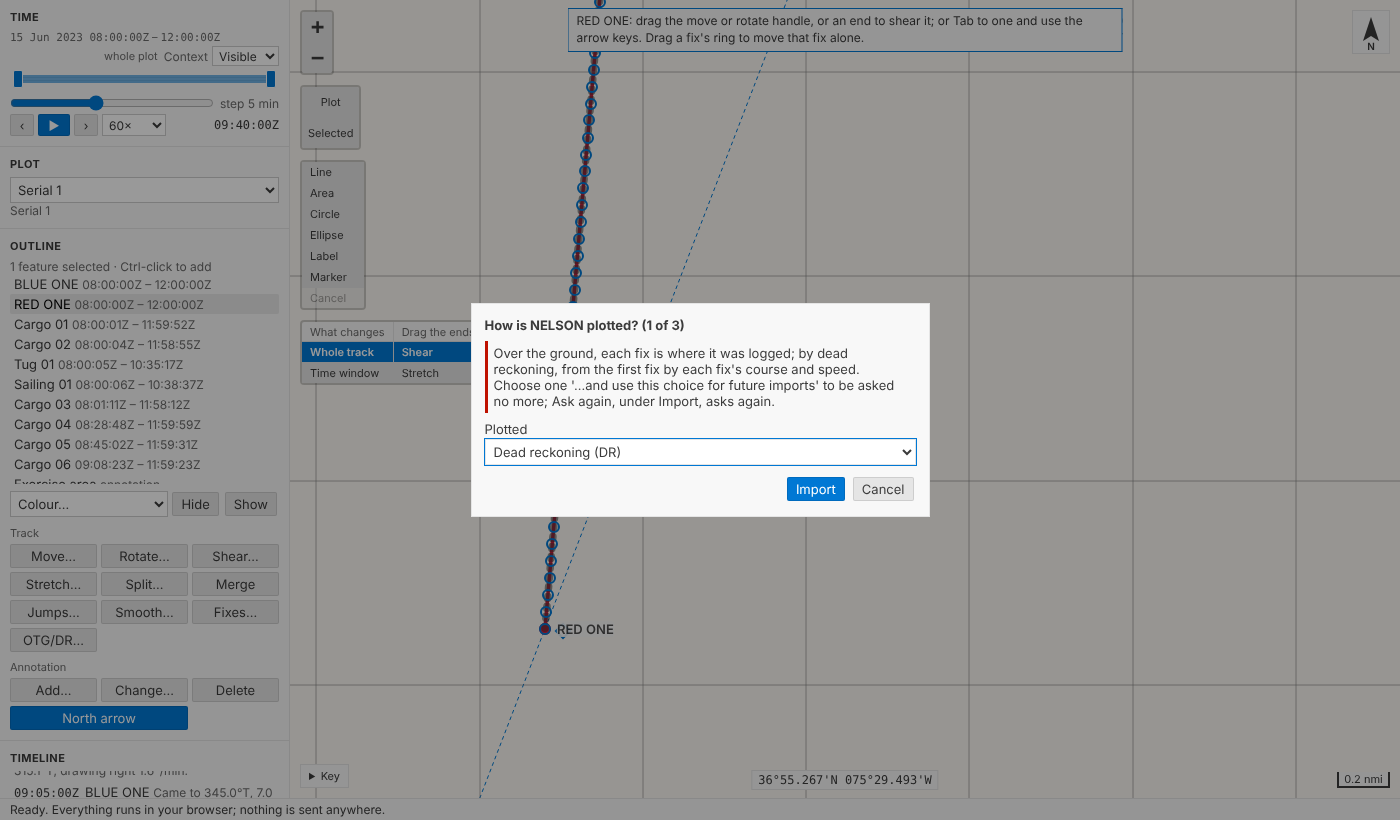
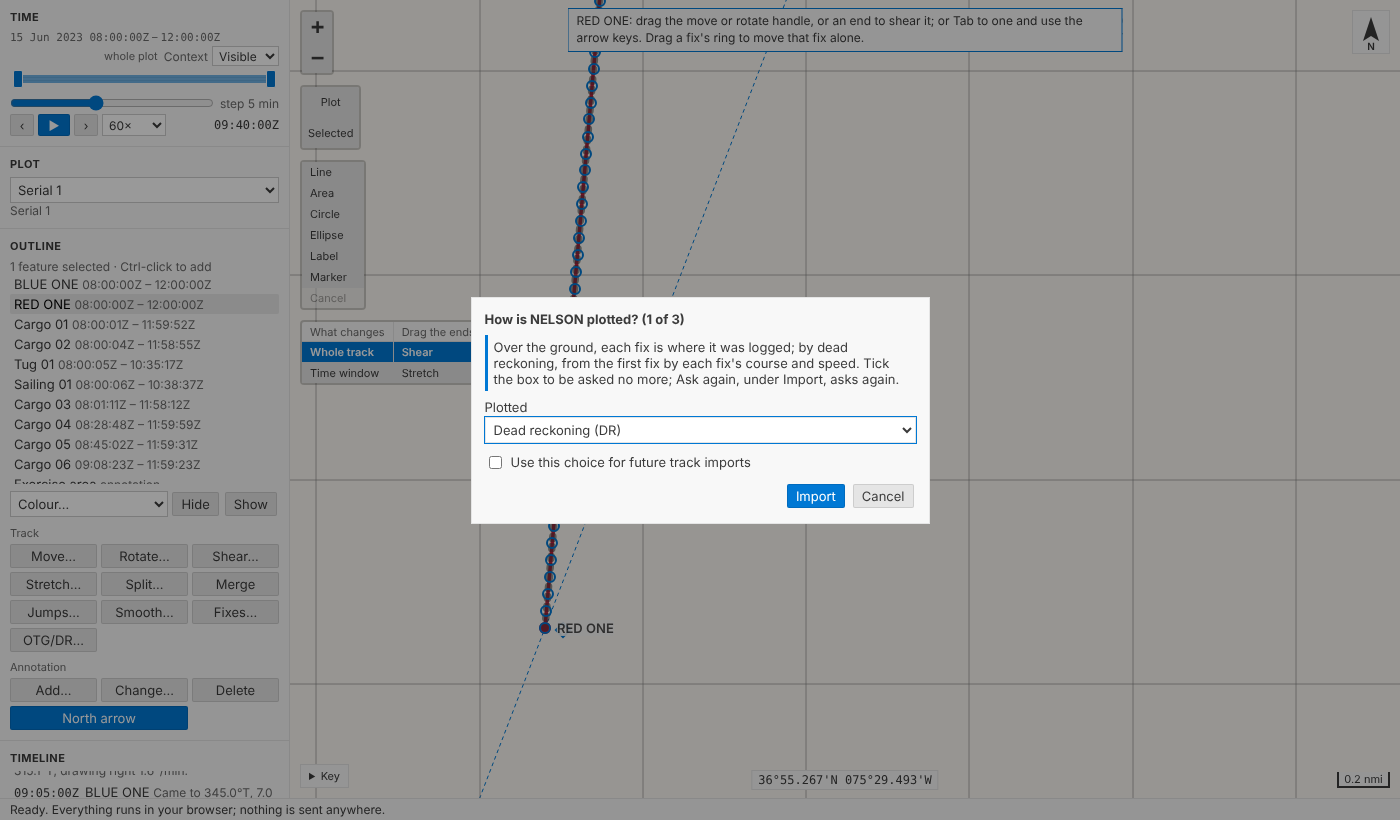
Docs: B3 decisions of 14 Oct recorded; import prompt, DR tag and confirmation; screenshots retaken
The track operations guide records the product owner's answers (DR to OTG
after edits asks first; a REP track asked about once, whole; DR tagged in the
outline and on the map) and the panel's choice of a Quick Pick line as the
"Use this choice for future track imports" box. The blog post, Try page and
extension README say the same; the import prompts (playground and VS Code) are
retaken and the playground's confirmation is added.

Claude-Session: https://claude.ai/code/session_018c8QiHtanE5rfymqfArUYT

diff --git a/site/docs/guides/interaction-models/track-operations.md b/site/docs/guides/interaction-models/track-operations.md
@@ -286,10 +286,12 @@ Part B3 (14 Oct 2026), the last of part B. One fix moved on its own, as legacy D
 
 8. **Over the ground or dead reckoning (OTG and DR).** Legacy Debrief plotted each track either **over the ground** (OTG: each fix where it was logged) or by **dead reckoning** (DR: the first fix where it was logged, and each fix after it placed from the one before by the course and speed logged, as a navigator plots a DR track), and asked which as each track was imported, with a checkbox *Use this choice for future track imports*. That worked well, since a community tends to stick with one or the other, so Debrief does the same (decision, product owner, 14 Oct 2026):
 
-    - **Importing a REP file asks, for each track,** *How is RED ONE plotted? (1 of 3)*, offering **Over the ground (OTG)**, **Dead reckoning (DR)**, and each of them *and use this choice for future imports* (a VS Code list, or in the playground a list in a small form: the keyboard and a finger both work). Choosing to use it for future imports applies it to the file's remaining tracks and to every import after, without asking. `Escape`, or **Cancel**, imports nothing.
+    - **Importing a REP file asks, for each track,** *How is RED ONE plotted? (1 of 3)*, offering **Over the ground (OTG)** or **Dead reckoning (DR)** and, apart from that choice, as legacy had it, a box to tick: *Use this choice for future track imports*. In the playground that is a small form with the two choices and a check box. A VS Code list (Quick Pick) has no check box, so the box is the list's last line, showing a ticked or an empty circle and saying *on* or *off*: choosing it ticks or clears it and the list stays open, and choosing OTG or DR answers. That keeps one question per track, used the same way by keyboard, mouse or screen reader, rather than a second question after each (decision, panel review, 14 Oct 2026). Ticked, the choice applies to the file's remaining tracks and to every import after, without asking. `Escape`, or **Cancel**, imports nothing. A REP track is asked about once, whole, even where its legs were plotted differently in legacy (decision, product owner, 14 Oct 2026).
     - **The import's notes say how each track is plotted** (*Track 'RED ONE' plotted by dead reckoning (DR).*), and, when the remembered choice was used, how to change it or be asked again. They are in the plot's provenance too.
     - **The remembered choice is the analyst's own setting, and can be cleared.** It is three-way: *ask* (the default), *otg* or *dr*. In VS Code it is the setting **Debrief: Track import mode** (`debrief.trackImportMode`), and **Debrief: Ask again whether imported tracks are OTG or DR** sets it back to ask; in the playground, the line under *Import* says what is remembered, and **Ask again** clears it.
     - **The mode is kept on the track** (its `plotting_mode`), as content like its colour; the track's line on the map is always the positions as plotted, so other GeoJSON tools draw what Debrief draws. A track plotted by dead reckoning keeps its **positions as logged** beside them. **Plot over the ground or by dead reckoning…** (the outline's menu on a track; **OTG/DR…** under *Track* in the playground) changes it as **one step**: *RED ONE plotted by dead reckoning*, with *From its first fix, at 09:30:00Z, by each fix's recorded course and speed; its positions as logged are kept* and the most a fix moved; or *RED ONE plotted over the ground*, *Each fix where it was logged*, the positions as logged put back. A track that does not record both courses and speeds cannot be plotted by dead reckoning, and Debrief says why. Other changes to a track plotted by dead reckoning (a move, a fix dragged) change the positions as plotted; its positions as logged stay as logged, and go with their fixes when fixes are removed or the track is split or merged (tracks plotted differently are not merged, and the message says so).
+    - **Over the ground again, after a change made while plotted by dead reckoning, asks first** (decision, product owner, 14 Oct 2026). The positions as logged come back, so that change is lost; when a fix is more than a metre from where dead reckoning from the positions as logged puts it, Debrief says so before doing anything: *RED ONE was changed while plotted by dead reckoning (its fix at 09:34:00Z is 2.00 nmi from where dead reckoning puts it). Plotted over the ground, each fix goes back where it was logged, and the changes made while plotted by dead reckoning are lost; its courses and speeds stay as they are now. Undo takes it back.* VS Code asks in a dialog (**Plot over the ground**, or **Cancel**); the playground asks in its small form. Confirmed, it is still one step, its notes saying *Changes made while plotted by dead reckoning discarded*. An agent sends `discard_dr_changes: true` with the change; without it the service refuses (error -32003), saying why and how to go ahead.
+    - **A track plotted by dead reckoning is tagged DR** beside its name: in the outline (VS Code's description, *DR · …*; a small *DR* in the playground's outline), and on the map, in its label and tooltips (*RED ONE (DR)*). Its line is drawn as any track's (decision, product owner, 14 Oct 2026).
     - **Dead reckoning places each fix from the one before by that fix's recorded course and speed over the time between, along the geodesic.** That is the rule legacy Debrief used: legacy saves a DR leg's worked-out positions in its plot files, and on its sample plots this puts every fix back within 0.1 m of them.
     - **A legacy .dpf plot is not asked about:** it says how each leg was plotted (`PlotRelative`). A track whose legs were all plotted by dead reckoning is imported so, with the positions legacy worked out; the plot does not hold its positions as logged, so it cannot be plotted over the ground, and the import says so (it used to say nothing).
 
@@ -336,6 +338,6 @@ sequenceDiagram
 - **The playground:** `vscode/play/host.ts` (the buttons and the small forms) and `track` in `vscode/play/play.py`.
 - **Tests:** `python/debrief-stac/tests/test_tracks.py` (geodesic moves and rotations, far north and across the antimeridian; periods; split and merge invariants; undo; conflicts), the service test, `vscode/test/unit/trackedit.test.ts`, the playground test's `vscode/test/play/tracks.mjs` (drag, Escape, undo, rotate, keyboard runs, a period, a colleague's change during a drag, split, merge, an overlap refused, the forms), the playground test's `vscode/test/play/shear.mjs` (a straight leg sheared and stretched by its ends, Escape, undo, the keyboard, the forms), and the integration test's track steps.
 - **Cleaning tracks (part B2):** schema 0.0.16's `FixMark` and `fix_marks` in `schemas/linkml/features.yaml`, the messages `show_fixes` and `fix_chosen`, the rules in `debrief_schemas.documents`; `debrief_stac.fixes` (finding jumps, the default threshold, removing fixes with every series in step, smoothing, marks and the step names), marks carried through `split` and `merge` in `debrief_stac.tracks`; `Catalogue.find_jumps`, `remove_jumps`, `smoothing_preview`, `smooth_track` and `mark_fix`; the service's `debrief/find_jumps`, `debrief/remove_jumps`, `debrief/preview_smoothing`, `debrief/smooth_track` and `debrief/mark_fix`; the .dpf mapping in `debrief_io.dpf_import` (`_fix_marks`); `vscode/webview/fixes.ts` (free of Leaflet: the fix list's rows, reading a threshold and a window, the words); the map's marks, rings and preview in `vscode/webview/map.ts`; the commands `debrief.removeJumps`, `debrief.smoothTrack` and `debrief.markFix` in `vscode/src/extension.ts`; the Timeline's fix comments in `vscode/src/timeline.ts`; the playground's **Jumps…**, **Smooth…** and **Fixes…** (`vscode/play/host.ts`, `clean` and `glitches` in `play.py`). Tests: `python/debrief-stac/tests/test_fixes.py`, the service test, `python/debrief-io/tests/test_dpf_import.py`, `vscode/test/unit/fixes.test.ts`, the playground test's `vscode/test/play/cleaning.mjs`, and the integration test's cleaning steps.
-- **Single fixes and dead reckoning (part B3):** schema 0.0.17's `move_fix` and `set_plotting_mode` actions of `TrackEdit`, with `fix_time`, `position` and `plotting_mode`; `plotting_mode` and `logged_positions` on a track; `track_import_mode` in the analyst's configuration (`debrief_config.track_import_mode` and `with_track_import_mode`, and their TypeScript twins); and their rules in `debrief_schemas.documents` and `vscode/src/messages.ts`; `debrief_stac.tracks` (`fix_index`, `fix_moved`, `implied_speeds`, `plotted_as`, `dead_reckoned_positions` and the step names) and `Catalogue.edit_track`; the modes given to `debrief_io.import_rep` (`modes`, `remembered`, `rep_track_names`) and the .dpf mapping of `PlotRelative` in `debrief_io.dpf` and `dpf_import`; the service's `debrief/rep_tracks`; asking for each track in `vscode/src/importmode.ts`; `vscode/webview/trackedit.ts` (free of Leaflet: which fixes get rings, a fix's gesture, the readout with the speeds in and out, the jump speed, dead reckoning) and the rings, their drag, keyboard and menu in `vscode/webview/trackmap.ts`; the commands `debrief.moveFix`, `debrief.plottingMode` and `debrief.askTrackImportMode`, the setting `debrief.trackImportMode`, the questions in `debrief.importRep`, and **Move…** in a fix's menu in `vscode/src/extension.ts`; the playground's **Move…** in the fix list, **OTG/DR…**, the questions on import and **Ask again** (`vscode/play/host.ts`, and `import_mode` and `rep_tracks` in `play.py`). Tests: `python/debrief-stac/tests/test_fix_drag.py` (geodesic moves far north and across the antimeridian, the speeds implied, marks kept, undo, conflicts; dead reckoning of straight legs at any latitude and back over the ground, split and merge, refusals), `python/debrief-io/tests/test_importer.py` and `test_dpf_import.py` (modes given, notes, a .dpf DR leg), `python/debrief-config/tests/test_config.py` and `ts/config/test/config.test.ts` (the setting, cleared), the service test, `vscode/test/unit/fixdrag.test.ts` and `importmode.test.ts`, the playground test's `vscode/test/play/fixdrag.mjs` (zoom in for rings, a mouse drag, `Escape`, undo, a run of arrow keys, a finger's drag, the form, OTG/DR, an import asking for each track, remembered, then asked again), and the integration test's single-fix and import steps.
+- **Single fixes and dead reckoning (part B3):** schema 0.0.17's `move_fix` and `set_plotting_mode` actions of `TrackEdit`, with `fix_time`, `position`, `plotting_mode` and `discard_dr_changes`; `plotting_mode` and `logged_positions` on a track; `track_import_mode` in the analyst's configuration (`debrief_config.track_import_mode` and `with_track_import_mode`, and their TypeScript twins); and their rules in `debrief_schemas.documents` and `vscode/src/messages.ts`; `debrief_stac.tracks` (`fix_index`, `fix_moved`, `implied_speeds`, `plotted_as`, `dead_reckoned_positions`, `changed_while_dr` and the step names) and `Catalogue.edit_track` (refusing with `ConfirmationNeeded`, the service's error -32003, until confirmed); the DR tag (`trackLabel` and `DR_TAG` in `vscode/webview/fixes.ts`, the outline and the map); the modes given to `debrief_io.import_rep` (`modes`, `remembered`, `rep_track_names`) and the .dpf mapping of `PlotRelative` in `debrief_io.dpf` and `dpf_import`; the service's `debrief/rep_tracks`; asking for each track in `vscode/src/importmode.ts`; `vscode/webview/trackedit.ts` (free of Leaflet: which fixes get rings, a fix's gesture, the readout with the speeds in and out, the jump speed, dead reckoning) and the rings, their drag, keyboard and menu in `vscode/webview/trackmap.ts`; the commands `debrief.moveFix`, `debrief.plottingMode` and `debrief.askTrackImportMode`, the setting `debrief.trackImportMode`, the questions in `debrief.importRep`, and **Move…** in a fix's menu in `vscode/src/extension.ts`; the playground's **Move…** in the fix list, **OTG/DR…**, the questions on import and **Ask again** (`vscode/play/host.ts`, and `import_mode` and `rep_tracks` in `play.py`). Tests: `python/debrief-stac/tests/test_fix_drag.py` (geodesic moves far north and across the antimeridian, the speeds implied, marks kept, undo, conflicts; dead reckoning of straight legs at any latitude and back over the ground, split and merge, refusals), `python/debrief-io/tests/test_importer.py` and `test_dpf_import.py` (modes given, notes, a .dpf DR leg), `python/debrief-config/tests/test_config.py` and `ts/config/test/config.test.ts` (the setting, cleared), the service test, `vscode/test/unit/fixdrag.test.ts` and `importmode.test.ts`, the playground test's `vscode/test/play/fixdrag.mjs` (zoom in for rings, a mouse drag, `Escape`, undo, a run of arrow keys, a finger's drag, the form, OTG/DR, an import asking for each track, remembered, then asked again), and the integration test's single-fix and import steps.
 
-*Not yet (after part B):* a REP track whose legs legacy plotted differently (its symbology's new-segment marks) asked about leg by leg; a track plotted by dead reckoning shown so on the map; how often fixes are labelled, marked with a symbol and given a direction arrow, set for one or more tracks at once, every 1 second to every 24 hours (CAP-32, planned, not yet scheduled); a ring on the fix nearest the pointer when zoomed out; a DR track's positions worked out again when the track later changes, as legacy did; simplifying a track (dropping fixes); where on a fix a label goes, and fix symbols and arrows; live bearing residuals while shearing or stretching (the TMA module, CAP-21); choosing which track wins where merged tracks overlap; renaming a track on its own.
+*Not yet (after part B):* a REP track whose legs legacy plotted differently (its symbology's new-segment marks) asked about leg by leg; how often fixes are labelled, marked with a symbol and given a direction arrow, set for one or more tracks at once, every 1 second to every 24 hours (CAP-32, planned, not yet scheduled); a ring on the fix nearest the pointer when zoomed out; a DR track's positions worked out again when the track later changes, as legacy did; simplifying a track (dropping fixes); where on a fix a label goes, and fix symbols and arrows; live bearing residuals while shearing or stretching (the TMA module, CAP-21); choosing which track wins where merged tracks overlap; renaming a track on its own.

diff --git a/site/docs/blog/posts/2026-10-15-dragging-a-fix.md b/site/docs/blog/posts/2026-10-15-dragging-a-fix.md
@@ -45,21 +45,27 @@ We considered a single ring that follows the pointer to the nearest fix instead.
 
 Legacy Debrief could plot a track two ways. **Over the ground** (OTG) puts each fix where it was logged. **Dead reckoning** (DR) starts from the first fix and places each one after it by the course and speed logged at the fix before, the way a navigator plots a DR track. As each track came in, legacy asked which you wanted, with a checkbox: *Use this choice for future track imports*. The product owner told us that worked well, because a community tends to stick with one or the other, so we've done the same.
 
-Import a REP file and Debrief asks, track by track: *How is NELSON plotted? (1 of 3)*. Choose over the ground or dead reckoning, or either of them *and use this choice for future imports*, and Debrief stops asking. The import's notes say how each track was plotted, and, when your remembered choice was used, how to change it.
+Import a REP file and Debrief asks, track by track: *How is NELSON plotted? (1 of 3)*. Choose over the ground or dead reckoning and, as in legacy, tick *Use this choice for future track imports* if you'd like Debrief to stop asking. The import's notes say how each track was plotted, and, when your remembered choice was used, how to change it.
 
-![The playground asking, as a REP file is imported, how its first track, NELSON, is plotted: over the ground or by dead reckoning, or either for future imports too](images/phase-3/fixdrag-import-asks.png)
+![The playground asking, as a REP file is imported, how its first track, NELSON, is plotted: over the ground or by dead reckoning, with a box to tick to use the choice for future track imports](images/phase-3/fixdrag-import-asks.png)
 
-![VS Code asking the same, in a list: over the ground or dead reckoning, for this track, or for this and future imports](images/phase-3/fixdrag-vscode-import-asks.png)
+VS Code asks in a list. A VS Code list has no check box, so the box is the list's last line, an empty or a ticked circle that says *off* or *on*: choose it to tick it, and the list stays open for your answer. That's one question per track, the same with the keyboard, the mouse or a screen reader, rather than a second question after each.
+
+![VS Code asking the same, in a list: over the ground or dead reckoning, and below them the line to tick to use this choice for future track imports](images/phase-3/fixdrag-vscode-import-asks.png)
 
 Where that remembered choice lives matters. It's yours, not the plot's: a colleague you send a plot to shouldn't inherit it, and it mustn't change what's in a catalogue. So it is kept with your own Debrief settings (the same file VS Code and the Python services both read), never in a catalogue or a plot file. In VS Code it's an ordinary setting, **Debrief: Track import mode** (ask, OTG or DR), and **Debrief: Ask again whether imported tracks are OTG or DR** puts it back to asking; in the playground, **Ask again** sits under *Import*. The importer itself is simply told the answer, which is also how an agent says which it wants.
 
-What *is* the plot's is how each track is plotted: the mode is kept on the track, like its colour, and changing it later (**Plot over the ground or by dead reckoning…**) is one step. A track plotted by dead reckoning keeps its positions as logged beside the dead-reckoned ones, so switching back puts them back exactly; and the track's line is always the positions as plotted, so any other GeoJSON tool draws what Debrief draws.
+What *is* the plot's is how each track is plotted: the mode is kept on the track, like its colour, and changing it later (**Plot over the ground or by dead reckoning…**) is one step. A track plotted by dead reckoning keeps its positions as logged beside the dead-reckoned ones, so switching back puts them back exactly; and the track's line is always the positions as plotted, so any other GeoJSON tool draws what Debrief draws. It's tagged **DR** beside its name, in the outline and in its label on the map; its line is drawn as any track's.
+
+Switching back does lose something, though: if you've moved the track, or dragged a fix, while it was plotted by dead reckoning, its fixes go back where they were logged and those changes go. So Debrief asks first, saying which fix moved furthest and by how much; it's still one step, and `Ctrl+Z` brings the changes back.
+
+![The playground asking before RED ONE, moved while plotted by dead reckoning, is plotted over the ground again: the changes made while plotted by dead reckoning would be lost](images/phase-3/fixdrag-dr-changes-lost.png)
 
 We checked our dead reckoning against legacy's. Legacy plot files save a DR leg's worked-out positions, and placing each fix from the one before, by that fix's course and speed, along the geodesic, puts every fix of the legacy sample plots back within 0.1 m of them. Those plots aren't asked about at all: they say how each leg was plotted, and come in that way, with a note saying so.
 
 ## For agents
 
-The same through the tool service: `debrief/edit_track` with `{"action": "move_fix", "fix_time": …, "distance": …, "bearing": …}` (or a `position`), and `{"action": "set_plotting_mode", "plotting_mode": "dr"}`, each one step with what was asked in its record; and `debrief/import_rep` takes the mode for each track.
+The same through the tool service: `debrief/edit_track` with `{"action": "move_fix", "fix_time": …, "distance": …, "bearing": …}` (or a `position`), and `{"action": "set_plotting_mode", "plotting_mode": "dr"}`, each one step with what was asked in its record (back over the ground after a change made while plotted by dead reckoning is refused, saying why, unless the change says `"discard_dr_changes": true`); and `debrief/import_rep` takes the mode for each track.
 
 ## Try it
 
@@ -71,4 +77,3 @@ Select **RED ONE**, zoom in until its fixes have rings, and drag one. Then try `
 
 - **How often fixes are labelled, given a symbol and a direction arrow**, set for several tracks at once, every second to every 24 hours: a new requirement from the product owner, planned but not yet scheduled.
 - **A ring on the fix nearest the pointer** when zoomed out.
-- **A track plotted by dead reckoning shown so** on the map.

diff --git a/site/docs/try.md b/site/docs/try.md
@@ -15,7 +15,7 @@ This is Debrief v4 running in your browser: the same map, tool forms and results
 - **Draw on the map.** Choose **Area** on the map's toolbar, click each corner and double-click the last; the map says ranges, bearings and the area as you go. Name it in the form and press **Add**. Select it and drag a corner, or `Tab` to a handle and use the arrow keys: each change is one step in **History**.
 - **Clean a track.** Select RED ONE and choose **Put GPS glitches into the selected track** under **Try**, then **Jumps…** under *Track*, below the outline: the jumps found are ringed on the map and listed, all ticked; untick any and **Remove** the rest as one step. **Smooth…** shows the track as smoothing would leave it before you apply it. **Fixes…** lists every fix: choose one (or right-click it on the map) to colour, label or comment on it.
 - **Move one fix.** Select RED ONE and zoom in until each fix has a small ring: drag one, and only that fix moves; the map says how far, which way and how fast the track would now have to go to reach it and to go on, and warns when that is as fast as a jump. Letting go is one step. Or `Tab` to a ring and use the arrow keys, or choose **Move…** in **Fixes…** and type where it goes. **OTG/DR…** plots the track by dead reckoning, from its first fix by its recorded courses and speeds, or over the ground again.
-- **Import a REP file.** Under *Import your own*, choose a REP file: Debrief asks, for each track, whether it is plotted over the ground (OTG) or by dead reckoning (DR). Choose one *and use this choice for future imports* to be asked no more; **Ask again** clears it.
+- **Import a REP file.** Under *Import your own*, choose a REP file: Debrief asks, for each track, whether it is plotted over the ground (OTG) or by dead reckoning (DR). Tick *Use this choice for future track imports* to be asked no more; **Ask again** clears it. A track plotted by dead reckoning is tagged *DR* in the outline and on the map.
 - **Move a track.** Select BLUE ONE and drag the filled square: the map says how far and which way, along geodesics. Drag the ring to rotate it about the pivot. Choose **Time window** on the map to move only the fixes in the window, and watch the joins jump. Drag the diamond beside a track's last fix to shear it: the first fix stays put, and the map gives the new course and speed. Choose **Stretch** on the map to change only its speed. **Move…**, **Rotate…**, **Shear…**, **Stretch…**, **Split…** (at current time) and **Merge** are under *Track*, below the outline. Each is one step in **History**.
 - **Read the narrative.** The **Timeline** lists the plot's notes in time order. Choose one and current time moves to it.
 - **Undo.** Every change is a step in **History**. **Undo** replays the plot to the step before. Nothing is deleted: the undone step stays listed, and **Redo** brings it back.
